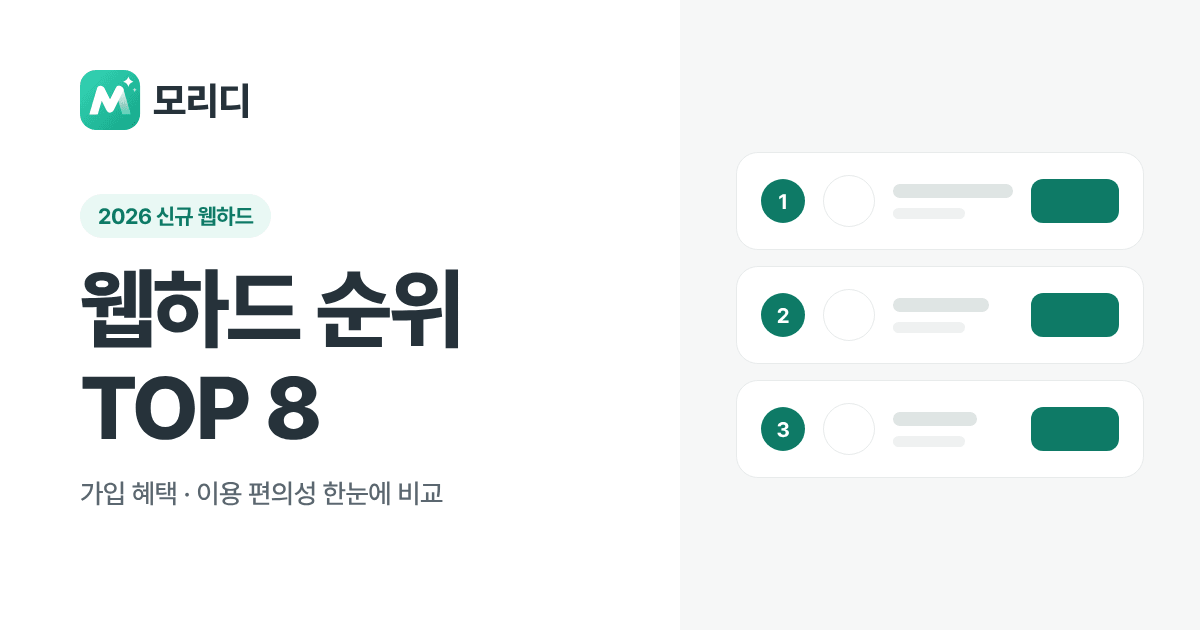
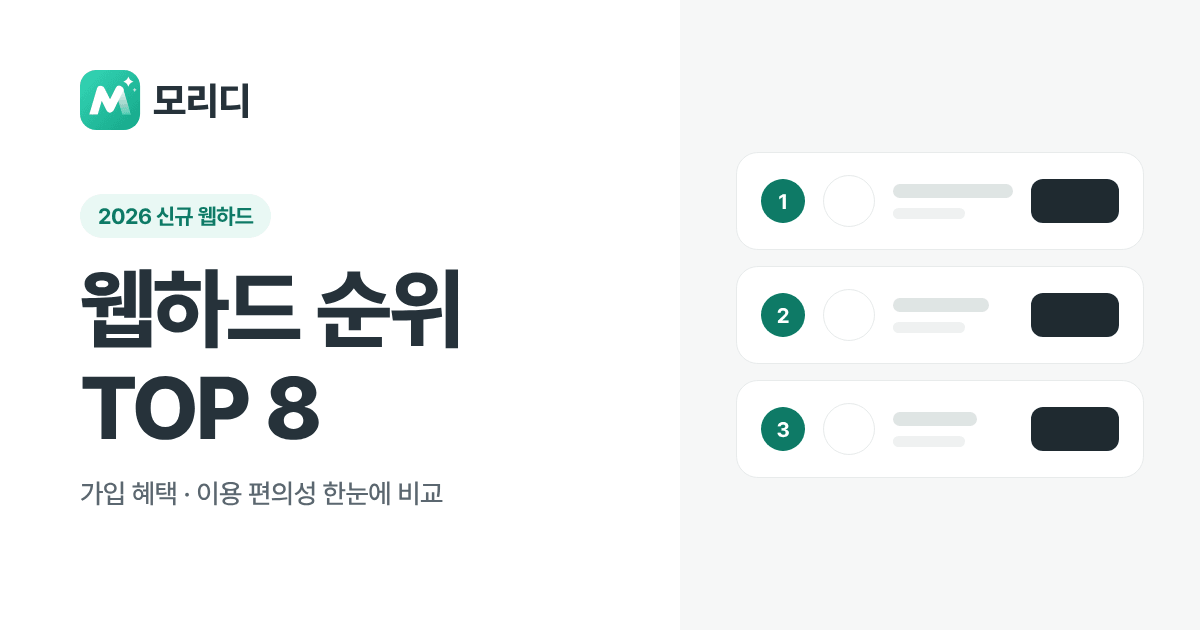
바로가기 버튼을 어두운 차콜로 변경
- 버튼 색을 짙은 민트에서 어두운 차콜(#1f2a30, 흰 글자 대비 14.7:1)로
- 공유 미리보기 속 버튼 모양도 같은 색으로, 문서의 색 설명 갱신

Claude-Session: https://claude.ai/code/session_016Hd2a5mFm7cV3qRqFEP7Z2

Changed region(s): [[0.8325, 0.6333, 0.9558, 0.7238], [0.8325, 0.4524, 0.9558, 0.5429], [0.8325, 0.2714, 0.9558, 0.3619]]

diff --git a/src/style.css b/src/style.css
@@ -7,6 +7,7 @@
   --line: #e8ebeb;
   --bg: #f6f7f7;
   --star: #f2a33a;
+  --button: #1f2a30;
   --radius: 16px;
 }
 
@@ -281,14 +282,14 @@ summary:focus-visible {
   place-items: center;
   height: 42px;
   border-radius: 10px;
-  background: var(--mint-deep);
+  background: var(--button);
   color: #fff;
   font-size: 14px;
   font-weight: 700;
 }
 
 .go:hover {
-  background: #0b6957;
+  background: #111a1f;
 }
 
 .caution {

diff --git a/docs/운영.md b/docs/운영.md
@@ -30,7 +30,7 @@
 - 공유 미리보기 이미지는 `src/og.png`(1200×630)다. 문구를 바꾸면 이미지도 다시 만들고 sharp로 다시 저장한다.
 - 로고는 `src/logo.svg`(심볼과 글자), 심볼만 쓰는 곳은 `src/favicon.svg`다. 글자 '모리디'는 Pretendard ExtraBold(SIL OFL) 외곽선이다. 두 파일의 심볼 모양을 같게 유지한다. 홈 화면 아이콘(`apple-touch-icon.png`)은 모서리 없이 꽉 찬 사각형으로 만든다.
 - 서체는 Pretendard 하나다(CDN의 dynamic subset). 로고 글자와 같은 서체다.
-- 색은 민트(로고·배지·아이콘), 짙은 민트(버튼·강조 글자), 차콜(글자), 흰색과 옅은 회색(바탕)이다. 포인트 색을 더 늘리지 않는다. `src/style.css`의 `:root` 변수로 관리하고, 글자색은 WCAG AA 대비(본문 4.5:1, 큰 글자 3:1)를 지킨다.
+- 색은 민트(로고·배지·아이콘), 짙은 민트(1~3위 배지·강조 글자), 어두운 차콜(글자·바로가기 버튼), 흰색과 옅은 회색(바탕)이다. 포인트 색을 더 늘리지 않는다. `src/style.css`의 `:root` 변수로 관리하고, 글자색은 WCAG AA 대비(본문 4.5:1, 큰 글자 3:1)를 지킨다.
 - 장식(영문 머리말 줄, 비대칭 모서리, 그라데이션 줄, 업체별 색)은 쓰지 않는다. 정렬, 여백, 흰 카드로 구분한다.
 - `node --test tests/*.test.mjs`로 빌드 결과를 검사한다. 소스 줄 길이와 주석도 여기서 걸러진다.
 - `main`에 push하면 `.github/workflows/pages.yml`이 빌드·검사 후 배포한다.
